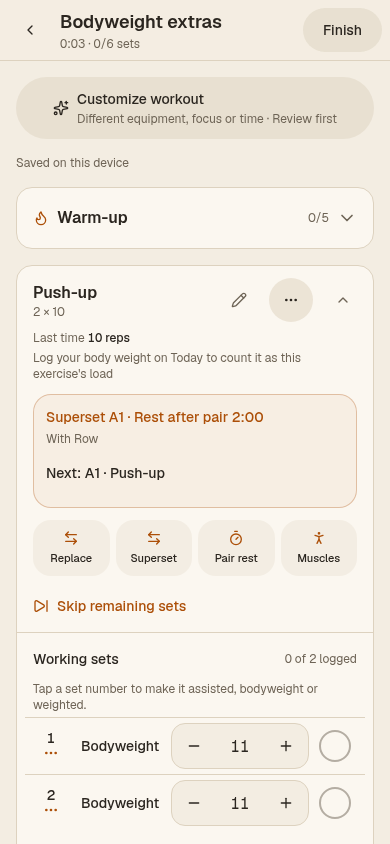
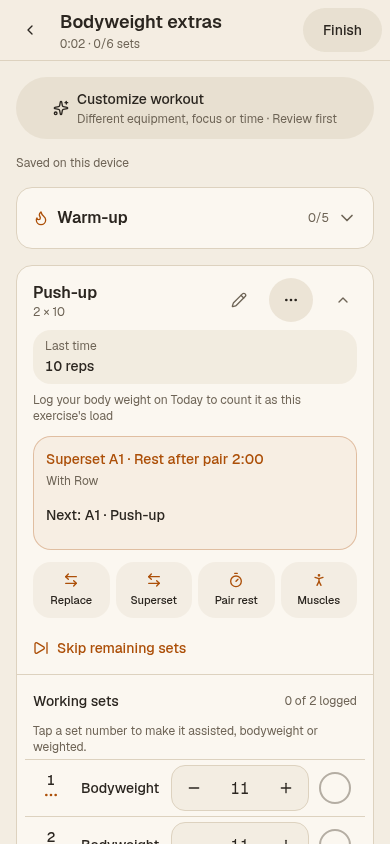
Recheck supersets alongside the latest workout and analysis UI

diff --git a/docs/ui-evidence/supersets/README.md b/docs/ui-evidence/supersets/README.md
@@ -45,3 +45,9 @@ Final results: lint, typecheck, all 596 unit tests and production build pass.
 Full local database/RLS, start/review race and seed checks pass with the final
 migration. Both browser scripts pass against the final UI, including removal
 of a paired temporary extra and Escape retaining an edited set input.
+
+2026-11-25 integration: merged the current production baseline ebc0079, retained
+the newer Last time/PR tiles and fully expanded weekly analysis, and reran both
+browser scripts successfully. Updated screenshots show that merged UI. Lint,
+types, 598 unit tests and build pass; the full DB/RLS/race/seed suite passes.
+The schema remains byte-identical to the owner's approved migration.
